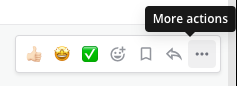
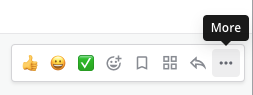
Incorporating user feedback

diff --git a/source/channels/send-messages.rst b/source/channels/send-messages.rst
@@ -18,26 +18,26 @@ Send messages
   :target: https://mattermost.com/deploy
   :alt: Available for Mattermost Self-Hosted deployments.
 
-Compose a message by typing into the text box at the bottom of Mattermost. Press :kbd:`Enter` on Windows or Linux, or :kbd:`↵` on Mac, to send a message. Pressing pressing :kbd:`Shift` :kbd:`Enter` on Windows or Linux, or pressing :kbd:`⇧` :kbd:`↵` on Mac creates a new line without sending a message. You can also `edit and delete messages <#edit-or-delete-messages>`__ after you've sent them.
+.. |gear-icon| image:: ../images/settings-outline_F08BB.svg
+  :alt: Select the Gear icon to open the Settings dialog.
+
+.. |more-icon| image:: ../images/dots-horizontal_F01D8.svg
+  :alt: Select the More icon to access additional message actions.
+
+Compose a message by typing into the text box at the bottom of Mattermost. Press :kbd:`Enter` on Windows or Linux, or :kbd:`↵` on Mac, to send the message. To create a new line without sending the message, press :kbd:`Shift` :kbd:`Enter` on Windows or Linux, or press :kbd:`⇧` :kbd:`↵` on Mac. 
+
+`Mattermost Professional or Enterprise <https://mattermost.com/pricing>`__ customers can `edit or delete messages <#edit-or-delete-messages>`__ after sending them if the System Admin hasn't restricted the ability to do so using `advanced permissions <https://docs.mattermost.com/onboard/advanced-permissions.html>`__.
 
 .. tip::
   
-  When you send messages in a channel, depending on the `channel actions configured <https://docs.mattermost.com/channels/create-channels.html>`__, specific words in the post can trigger a prompt to run a playbook. Access **Channel Actions** from the channel name drop-down menu in the center pane to see what automatic actions have been configured.
-
-Mattermost can automatically detect and display messages written using right-to-left scripts, such as Arabic, Hebrew, or Persian. Your System Admin must install the `RTL Plugin <https://github.com/QueraTeam/mattermost-rtl>`__ to enable this functionality.
-
-.. note::
-  
-  Your System Admin may restrict messaging actions, such as editing or deleting messages, by configuring `advanced permissions <https://docs.mattermost.com/onboard/advanced-permissions.html>`__, available in `Mattermost Enterprise and Professional subscription plans <https://mattermost.com/pricing>`__.
+  - When you send messages in a channel, depending on the `channel actions configured <https://docs.mattermost.com/channels/create-channels.html>`__, specific words in the post can trigger a prompt to run a playbook. Access **Channel Actions** from the channel name drop-down menu in the center pane to see what automatic actions have been configured.
+  - Using a RTL plugin, Mattermost can automatically detect and display messages written using right-to-left scripts, such as Arabic, Hebrew, or Persian. Your System Admin must install the `RTL Plugin <https://github.com/QueraTeam/mattermost-rtl>`__ to enable this functionality.
 
 .. tabs::
 
   .. tab:: Mattermost v6.0 onwards
 
       If you prefer to press :kbd:`Enter` on Windows or Linux, or :kbd:`↵` on Mac to insert new lines, and press :kbd:`Ctrl` :kbd:`Enter` on Windows or Linux, or :kbd:`⌘` :kbd:`↵` on Mac to send messages instead, select the **gear** |gear-icon| icon to go to **Settings**, then select **Advanced > Send messages on CTRL+ENTER**.
-
-      .. |gear-icon| image:: ../images/settings-outline_F08BB.svg
-        :alt: Select the Gear icon to open the Settings dialog.
 
   .. tab:: Mattermost v5.39 and earlier
 
@@ -46,11 +46,11 @@ Mattermost can automatically detect and display messages written using right-to-
 Edit or delete messages
 -----------------------
 
-Select the **More Actions** link next to a message that you've sent.
+Select the **More** |more-icon| icon next to a message that you've sent.
 
 .. image:: ../images/more-actions.png
-   :alt: More actions you can take with your messages
+   :alt: Select the More option to edit or delete a sent message.
 
-Select **Edit** to edit your own messages. Message edits do not trigger new @mention notifications, desktop notifications, or notification sounds.
+Select **Edit** to edit your own messages. Editing a message won't trigger new @mention notifications, desktop notifications, or notification sounds.
 
 Select **Delete** to delete your own messages. Select **Delete** again to confirm.
